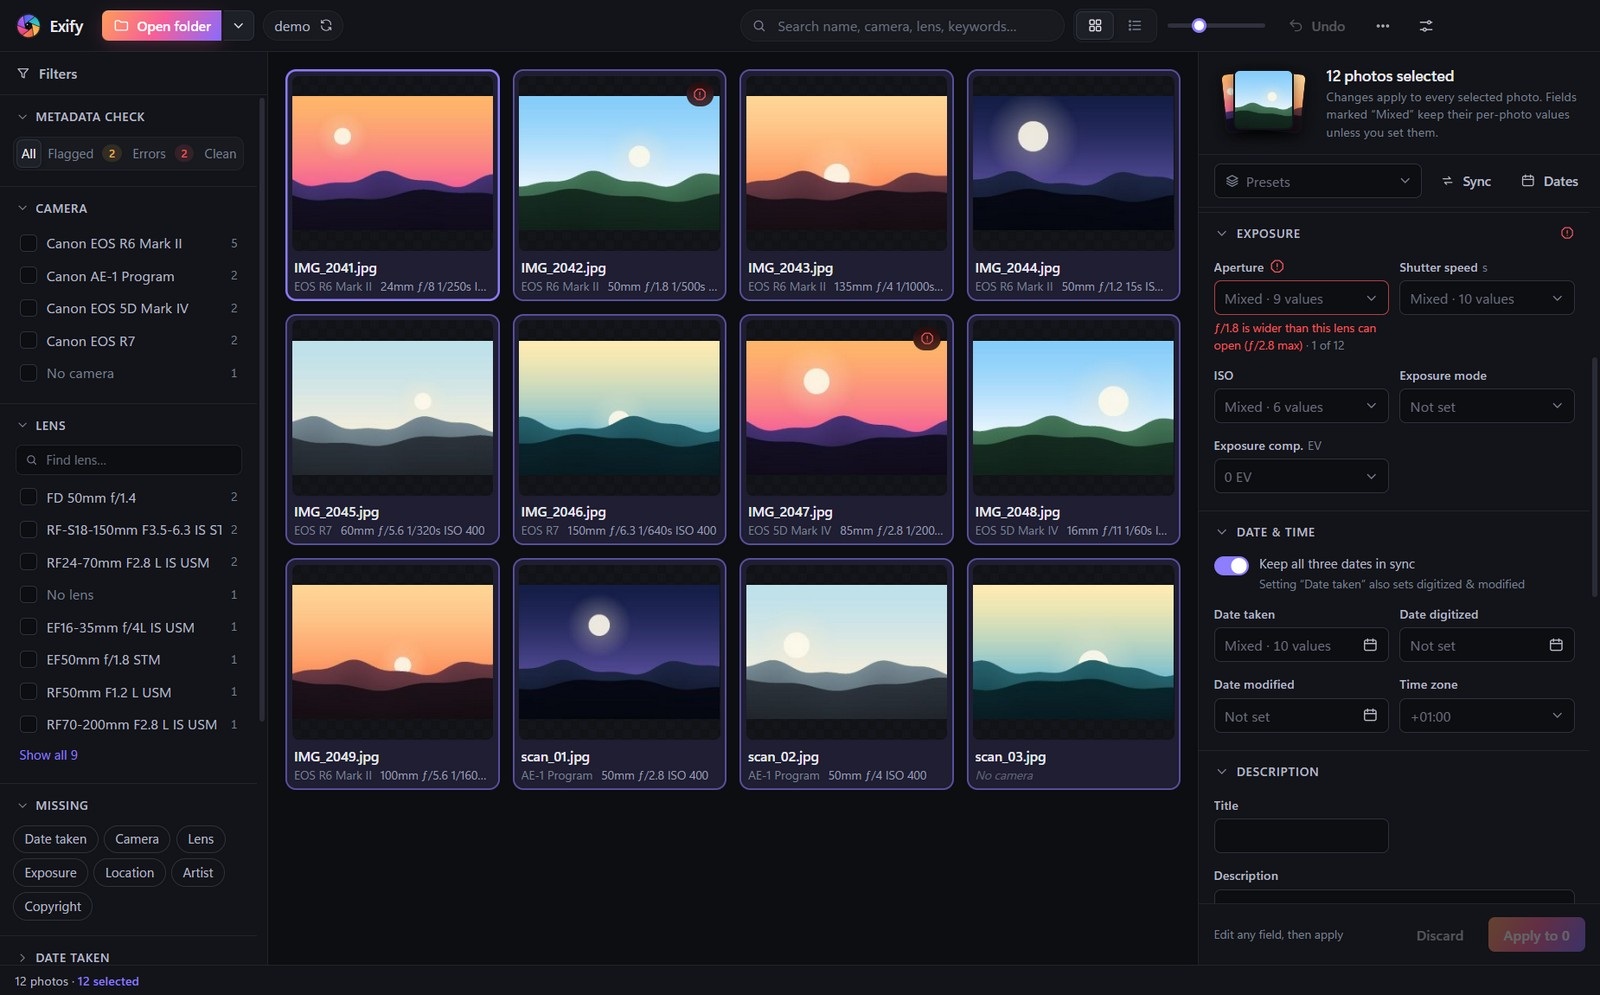
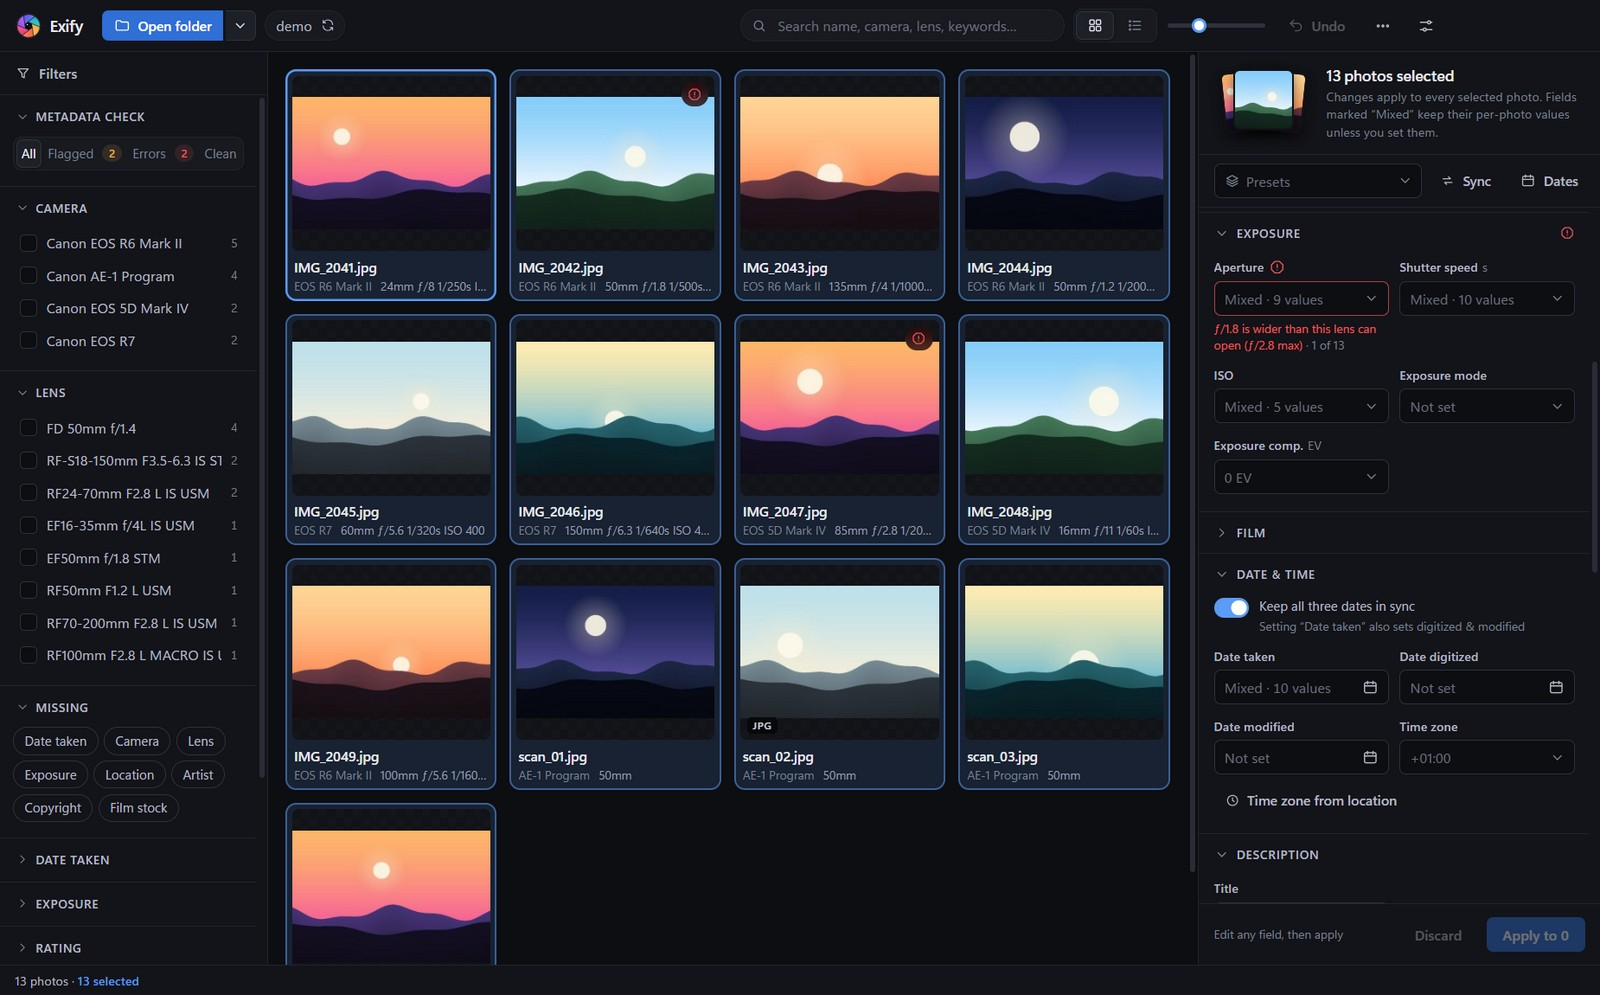
Retake README screenshots, add geotag and import shots

diff --git a/README.md b/README.md
@@ -61,11 +61,19 @@ Exify writes metadata into your files. **Keep backup copies** is on by default: 
 <table>
   <tr>
     <td><img src="docs/screenshots/lens-dropdown.jpg" alt="Lens dropdown grouped by what fits the selected camera, with an incompatible RF lens flagged"></td>
-    <td><img src="docs/screenshots/batch.jpg" alt="Batch editing twelve photos with Mixed values"></td>
+    <td><img src="docs/screenshots/batch.jpg" alt="Batch editing thirteen photos with Mixed values"></td>
   </tr>
   <tr>
     <td align="center"><sub>Lenses that fit the body come first; ones that don't are flagged.</sub></td>
     <td align="center"><sub>Batch-edit any number of photos at once.</sub></td>
+  </tr>
+  <tr>
+    <td><img src="docs/screenshots/geotag.jpg" alt="Geotagging nine photos from a GPX track, shown on a map of the hiking loop"></td>
+    <td><img src="docs/screenshots/import.jpg" alt="Importing a film shooting log, with columns mapped to fields and rows matched to scans by frame number"></td>
+  </tr>
+  <tr>
+    <td align="center"><sub>Match photos to a GPX track and check them on the map first.</sub></td>
+    <td align="center"><sub>Fill in a roll of film scans from a shooting log.</sub></td>
   </tr>
 </table>
 
